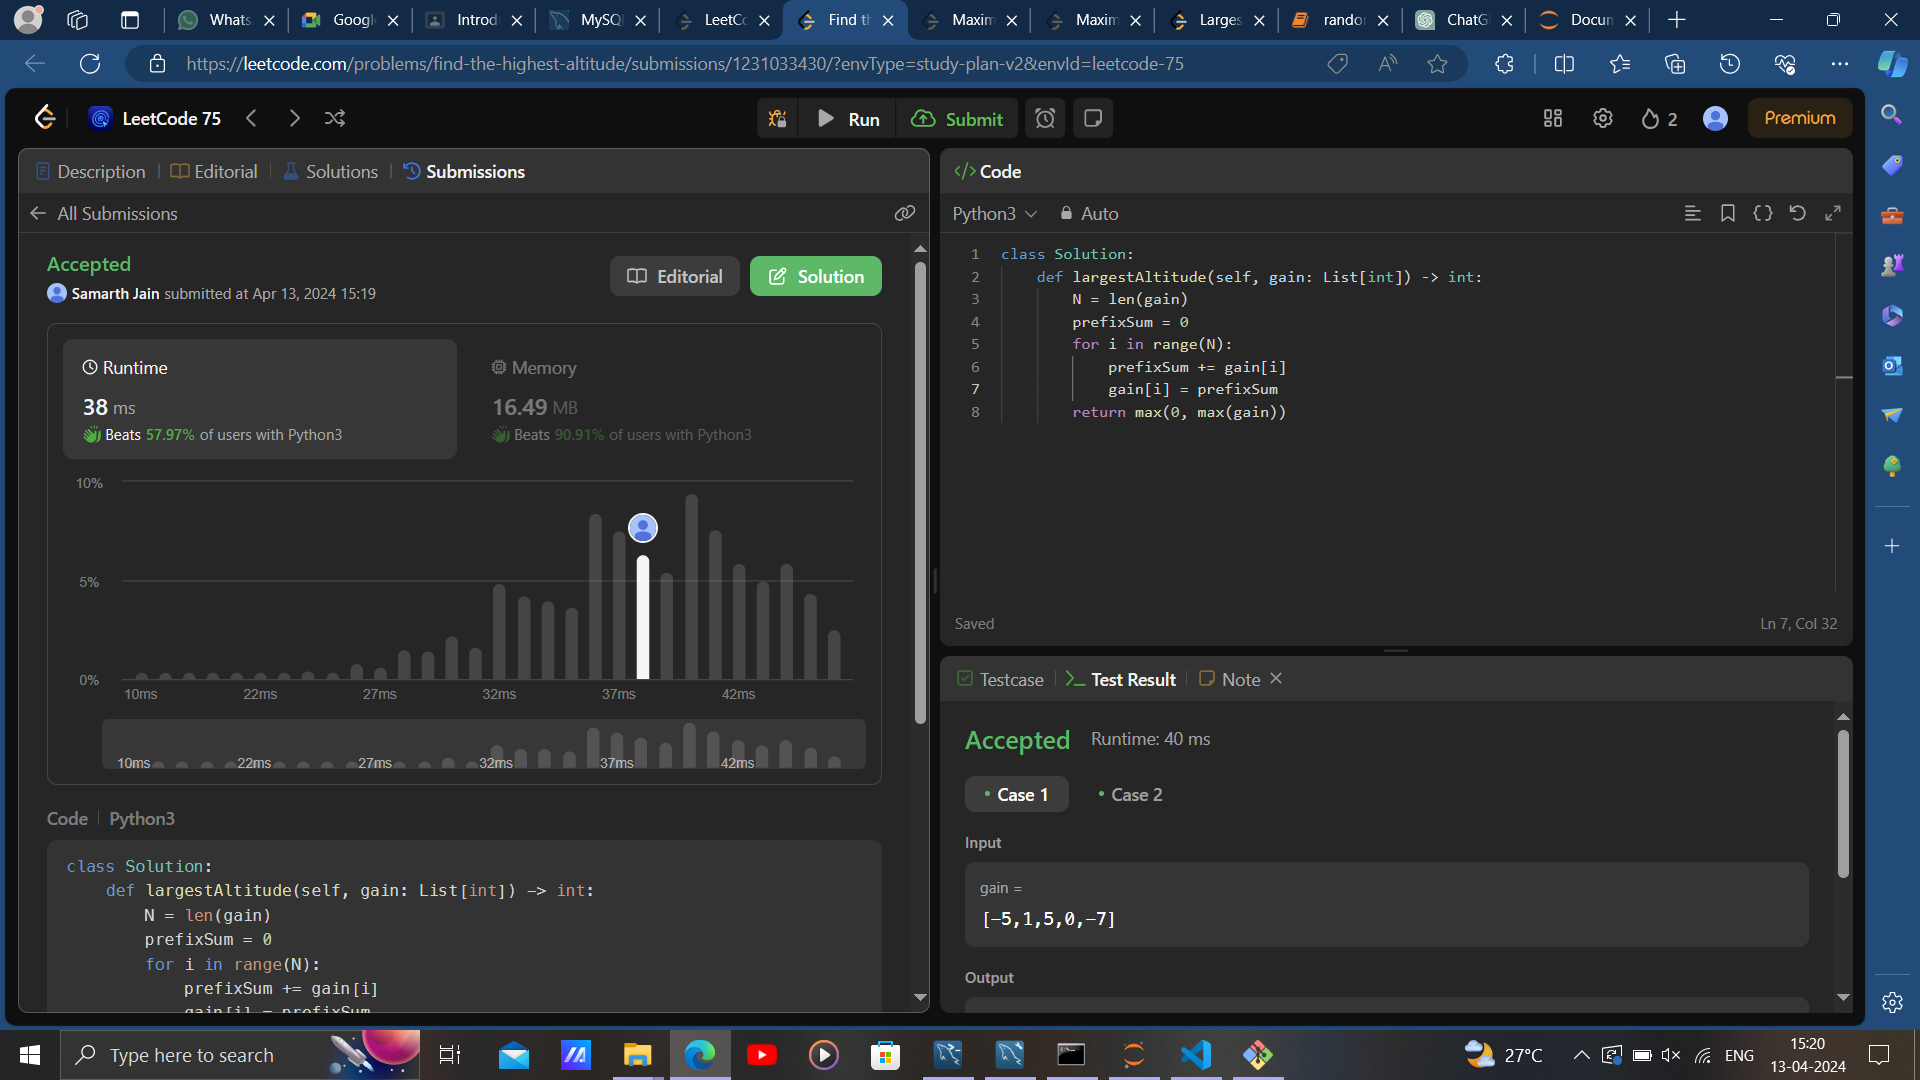
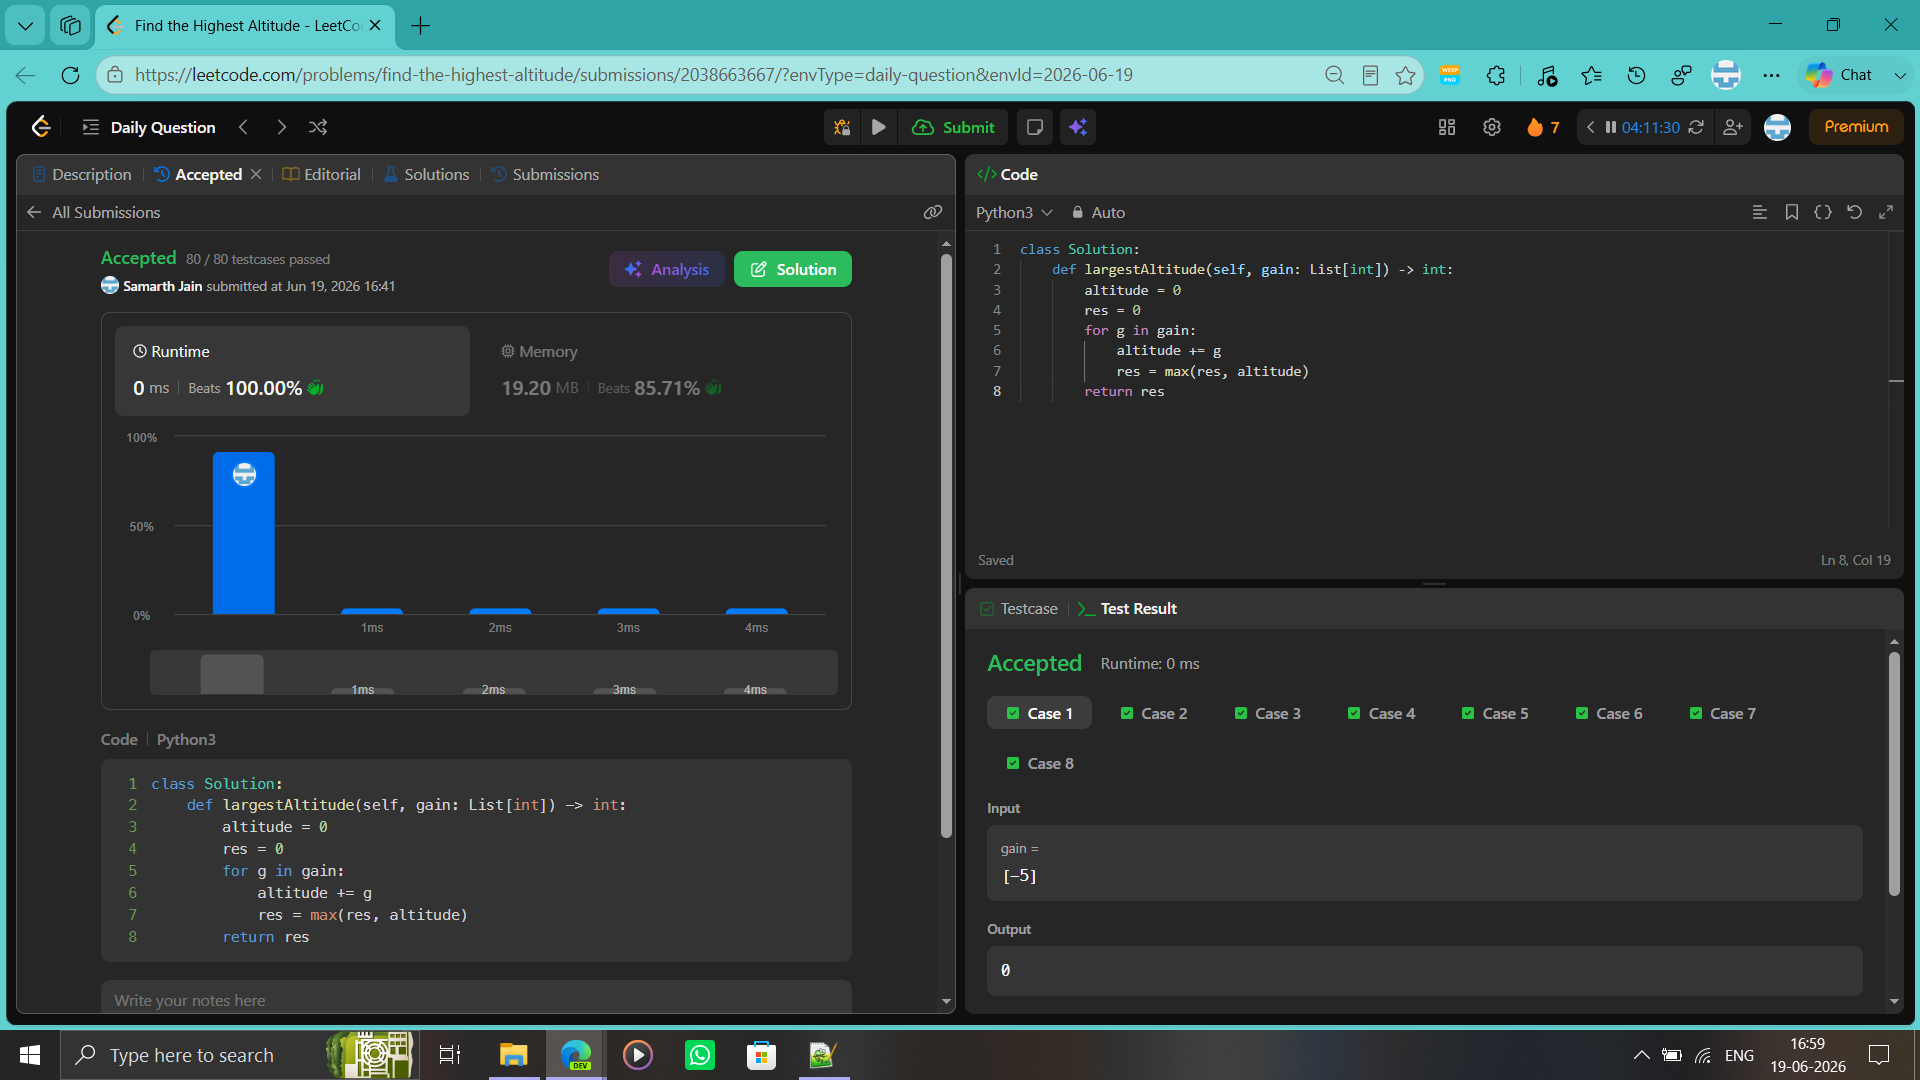
LeetCode-Solutions

diff --git a/Easy/[1732] Find the Highest Altitude/[1732] Find the Highest Altitude.py b/Easy/[1732] Find the Highest Altitude/[1732] Find the Highest Altitude.py
@@ -1,14 +1,14 @@
 """
 Accepted
 1732 [Easy]
-Runtime: 38 ms, faster than 57.97% of Python online submissions for Find the Highest Altitude.
-Memory Usage: 16.49 MB, less than 90.91% of Python online submissions for Find the Highest Altitude.
+Runtime: 0 ms, faster than 100.00% of Python online submissions for Find the Highest Altitude.
+Memory Usage: 19.20 MB, less than 85.71% of Python online submissions for Find the Highest Altitude.
 """
 class Solution:
     def largestAltitude(self, gain: List[int]) -> int:
-        N = len(gain)
-        prefixSum = 0
-        for i in range(N):
-            prefixSum += gain[i]
-            gain[i] = prefixSum
-        return max(0, max(gain))
+        altitude = 0
+        res = 0
+        for g in gain:
+            altitude += g
+            res = max(res, altitude)
+        return res